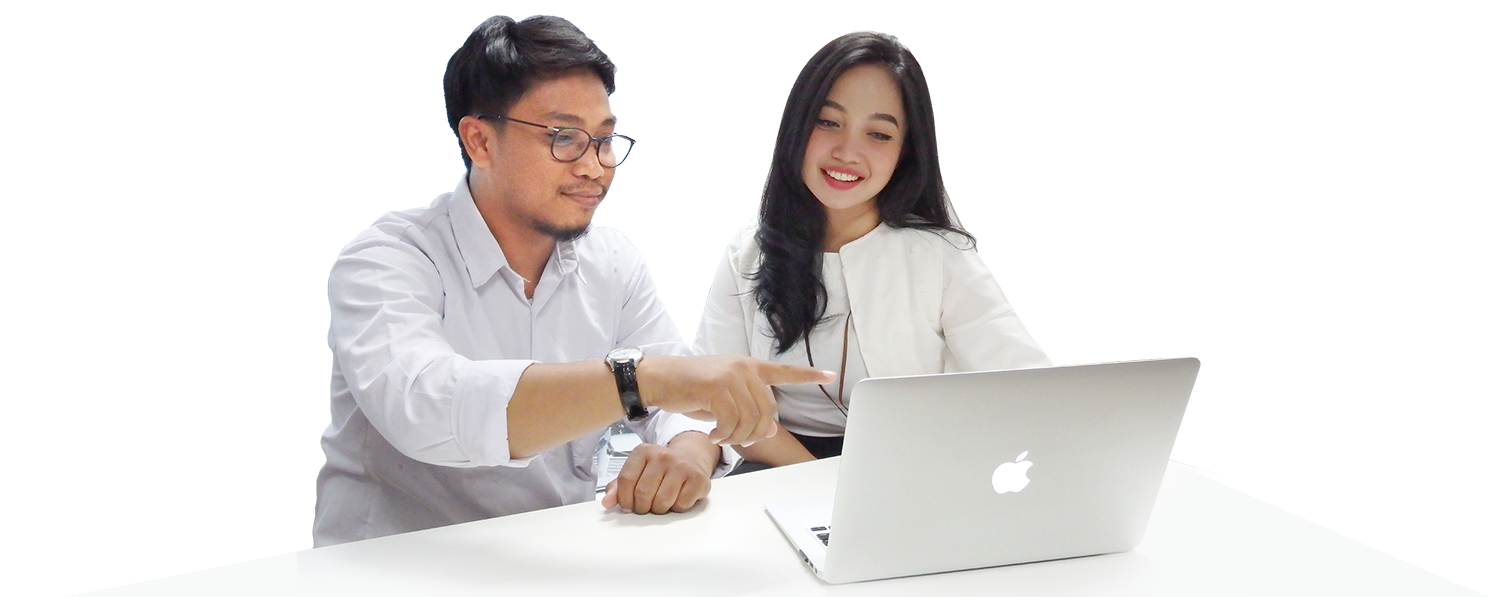
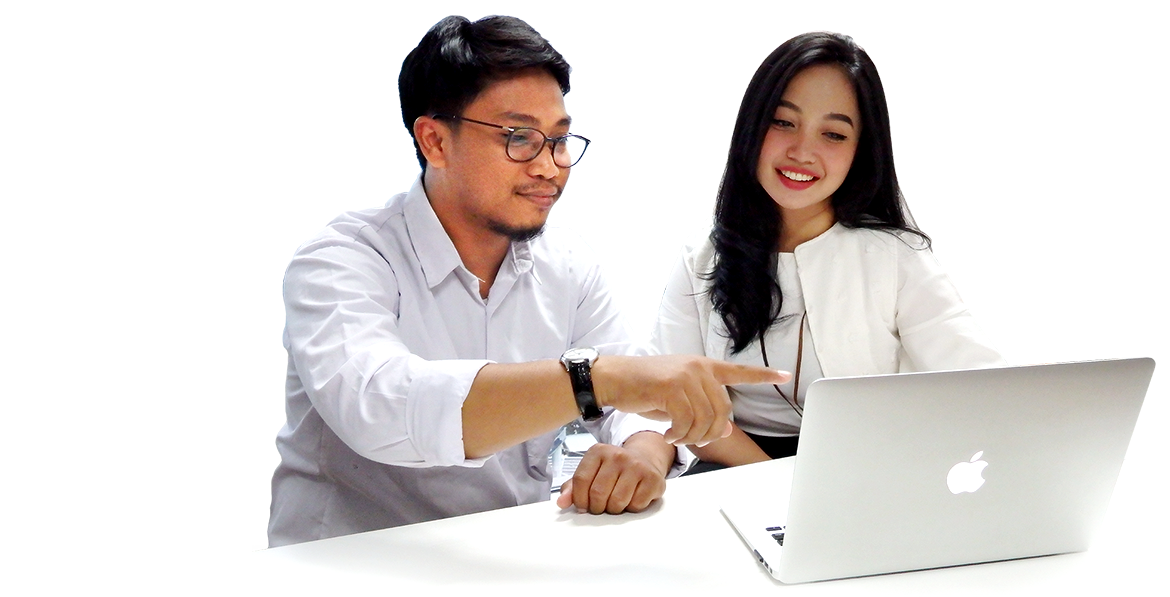
update image landing page R & R

diff --git a/resources/views/landing-page/2019-05-28.blade.php b/resources/views/landing-page/2019-05-28.blade.php
@@ -97,7 +97,7 @@
 	<div>
 		<a href="{{ route('login') }}" class="btn btn-info float-right btn_login">Login</a>
 		<div class="bg-2" >
-		  <div class="container">
+		  <div class="container" style="overflow: hidden;">
 			<div class="row" > 
 				<div class="col-md-4 float-left section-1">
 					<h1 style="color: #acce22; font-size: 53px;">EM-HR</h1>
@@ -110,8 +110,8 @@
 					<button class="btn_trial_1" onclick="form_free_trial()">Create Member</button>
 				</div>
 
-				<div class="col-md-8 float-right section-1" >
-					<img src="{{ asset('landing-page/2019-05-28/modelEMHRsmall.png') }}" style="width: 125%; position: absolute; bottom: -10px; right: -195px;">
+				<div class="col-md-8 float-right section-1">
+					<img src="{{ asset('landing-page/2019-05-28/modelEMHRsmall.png') }}" style="width: 100%; position: absolute; bottom: -15px; right: -5px; ">
 				</div>
 			</div>
 		  </div>
@@ -173,21 +173,21 @@
 					</div>
 					<div class="row">
 						<div class="col-md-4" >
-							<img style="margin: 0 35%; width: 40%;" alt="leave and permit" src="{{ asset('landing-page/2019-05-28/Core HR.png') }}"/>
+							<img style="margin: 0 35%; width: 40%;" alt="Core HR" src="{{ asset('landing-page/2019-05-28/Core HR.png') }}"/>
 							
 							<div class="col-md-12" style="padding: 5% 10% 5% 15%; text-align: center; font-size: 18px;">
 								<p>Standard modules that are often used in managing human resource</p>
 							</div>
 						</div>
 						<div class="col-md-4" >
-							<img style="margin: 0 35%; width: 40%;" alt="leave and permit" src="{{ asset('landing-page/2019-05-28/Payroll.png') }}"/>
+							<img style="margin: 0 35%; width: 40%;" alt="Payroll" src="{{ asset('landing-page/2019-05-28/Payroll.png') }}"/>
 							
 							<div class="col-md-12" style="padding: 5% 10% 5% 15%; text-align: center; font-size: 18px;">
 								<p>Detail of personal pay rate calculation net / gross</p>
 							</div>
 						</div>
 						<div class="col-md-4" >
-							<img style="margin: 0 35%; width: 60%;" alt="Leave and permit" src="{{ asset('landing-page/2019-05-28/Leave and permit.png') }}"/>
+							<img style="margin: 0 27%; width: 58%;" alt="Leave and permit" src="{{ asset('landing-page/2019-05-28/Leave and permit.png') }}"/>
 							
 							<div class="col-md-12" style="padding: 5% 10% 5% 15%; text-align: center; font-size: 18px;">
 								<p>For employee who will apply for leave or for permission</p>
@@ -210,7 +210,7 @@
 							</div>
 						</div>
 						<div class="col-md-4" >
-							<img style="margin: 0 8%; width: 112%;" alt="Medical Reimbursement" src="{{ asset('landing-page/2019-05-28/Medical Reimbursement.png') }}"/>
+							<img style="margin: 0 7%; width: 100%;" alt="Medical Reimbursement" src="{{ asset('landing-page/2019-05-28/Medical Reimbursement.png') }}"/>
 							
 							<div class="col-md-12" style="padding: 5% 10% 5% 15%; text-align: center; font-size: 18px;">
 								<p>Advance claim or any payment related to employee task</p>
